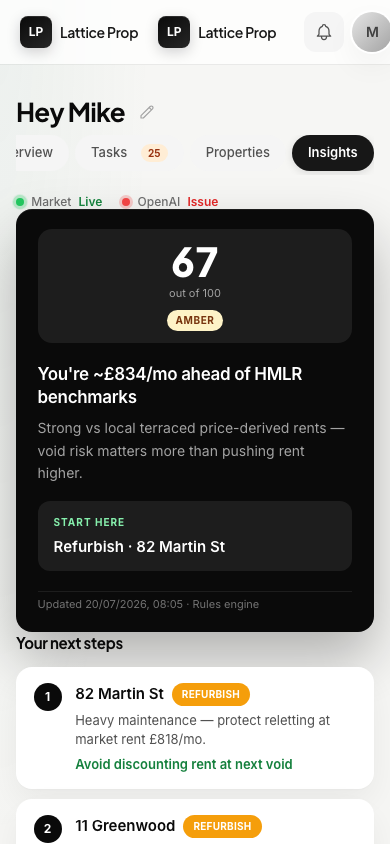
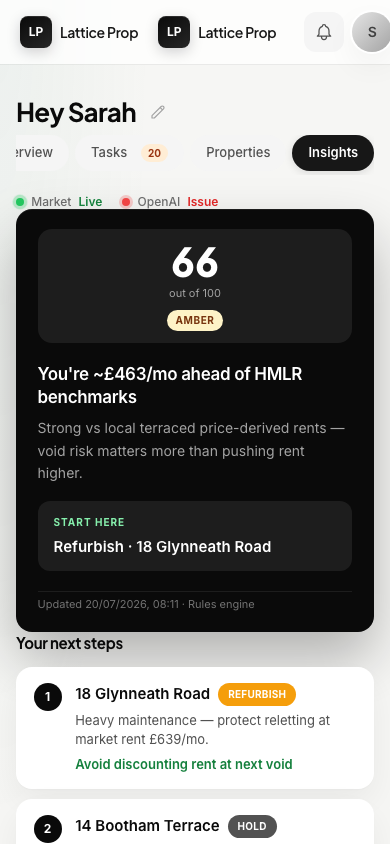
Update CV with Asda role and swap Lattice Prop screenshots to demo data.
Add Head of Product Online Grocery at Asda from Jan 2026, close out Tesco tenure, and recapture product shots using the public Sarah Mitchell demo instead of private portfolio data.

diff --git a/cv.html b/cv.html
@@ -5,7 +5,7 @@
     <meta name="viewport" content="width=device-width, initial-scale=1, viewport-fit=cover" />
     <meta
       name="description"
-      content="Jarryd David Addinall — Lead Product Manager with 10+ years driving B2C product innovation, customer experience, and revenue growth."
+      content="Jarryd David Addinall — Head of Product, Online Grocery at Asda. 10+ years driving B2C product innovation, customer experience, and revenue growth."
     />
     <meta name="author" content="Jarryd Addinall" />
     <meta name="theme-color" content="#ffffff" />
@@ -14,12 +14,12 @@
     <meta property="og:site_name" content="Jarryd Addinall" />
     <meta property="og:locale" content="en_GB" />
     <meta property="og:title" content="CV · Jarryd Addinall" />
-    <meta property="og:description" content="Lead Product Manager — checkout, discovery, fulfilment, and digital banking." />
+    <meta property="og:description" content="Head of Product, Online Grocery at Asda — checkout, discovery, fulfilment, and digital banking." />
     <meta property="og:url" content="https://jarrydaddinall.com/cv.html" />
     <meta property="og:image" content="https://jarrydaddinall.com/og-image.jpg" />
     <meta name="twitter:card" content="summary_large_image" />
     <meta name="twitter:title" content="CV · Jarryd Addinall" />
-    <meta name="twitter:description" content="Lead Product Manager — checkout, discovery, fulfilment, and digital banking." />
+    <meta name="twitter:description" content="Head of Product, Online Grocery at Asda — checkout, discovery, fulfilment, and digital banking." />
     <meta name="twitter:image" content="https://jarrydaddinall.com/og-image.jpg" />
     <title>CV · Jarryd Addinall</title>
     <link rel="icon" href="favicon.svg" type="image/svg+xml" />
@@ -39,7 +39,7 @@
         "mainEntity": {
           "@type": "Person",
           "name": "Jarryd David Addinall",
-          "jobTitle": "Lead Product Manager",
+          "jobTitle": "Head of Product — Online Grocery",
           "email": "jarryddaddinall@gmail.com",
           "address": { "@type": "PostalAddress", "addressLocality": "York" },
           "sameAs": ["https://linkedin.com/in/jarrydaddinall", "https://jarrydaddinall.com/"]
@@ -56,7 +56,7 @@
       <header class="page-head stack">
         <p class="lede">Career</p>
         <h1>Jarryd David Addinall</h1>
-        <p class="cv-role">Lead Product Manager</p>
+        <p class="cv-role">Head of Product — Online Grocery</p>
         <p class="cv-contact muted">
           York ·
           <a href="mailto:jarryddaddinall@gmail.com">jarryddaddinall@gmail.com</a>
@@ -69,10 +69,10 @@
           websites, delivering impactful solutions.
         </p>
         <p class="cv-summary muted">
-          With a background in consulting, finance, and retail, I currently lead customer-facing product teams at Tesco,
-          shaping strategies to elevate user experience and growth. I thrive on mentoring teams, fostering
-          cross-functional collaboration, and driving positive change through a human-centered approach. Passionate about
-          health, sports, and music, I’m always eager to apply my expertise in new areas.
+          With a background in consulting, finance, and retail, I lead online grocery product at Asda and previously
+          shaped customer-facing product teams at Tesco. I thrive on mentoring teams, fostering cross-functional
+          collaboration, and driving positive change through a human-centered approach. Passionate about health, sports,
+          and music, I’m always eager to apply my expertise in new areas.
         </p>
       </header>
 
@@ -82,8 +82,23 @@
         <article class="cv-entry">
           <header class="cv-entry-head">
             <div class="cv-entry-title-row">
+              <h3 class="cv-entry-org">Asda</h3>
+              <span class="cv-entry-date muted">Jan 2026 – Present</span>
+            </div>
+            <p class="cv-entry-role">Head of Product — Online Grocery</p>
+          </header>
+          <p class="cv-prose">
+            Leading product for Asda’s online grocery experience — setting direction across the digital shopping journey,
+            partnering with engineering, design, and operations, and driving measurable improvements in customer
+            experience and commercial performance.
+          </p>
+        </article>
+
+        <article class="cv-entry">
+          <header class="cv-entry-head">
+            <div class="cv-entry-title-row">
               <h3 class="cv-entry-org">Tesco</h3>
-              <span class="cv-entry-date muted">Apr 2021 – Present</span>
+              <span class="cv-entry-date muted">Apr 2021 – Dec 2025</span>
             </div>
           </header>
 
